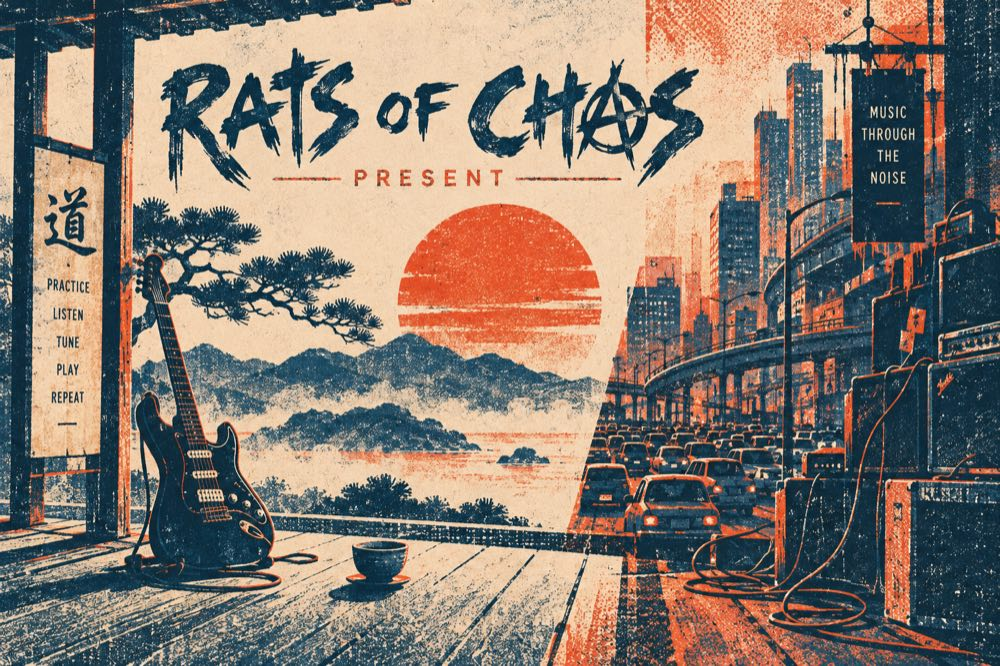
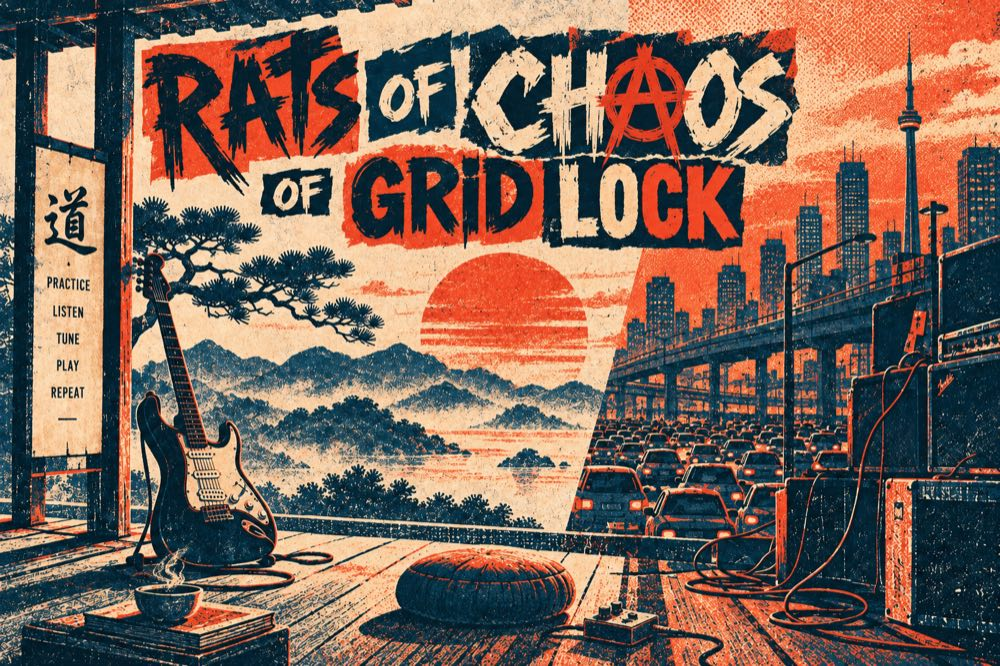
Use the Gridlock poster as the site hero

diff --git a/docs/superpowers/specs/2026-09-23-zen-guitar-journey-design.md b/docs/superpowers/specs/2026-09-23-zen-guitar-journey-design.md
@@ -286,14 +286,14 @@ the layout does not change.
 
 ## Addendum 3, 2026-09-23: the hero image is the Rats of Chaos poster
 
-The owner supplied `zen_guitar/zen rats of chaos.png` (a two-ink poster, indigo
+The owner supplied `zen_guitar/rats of chaos of grid lock to use.png` (the full-name version, "Rats of Chaos of Gridlock") (a two-ink poster, indigo
 and vermilion on cream: a guitar and teacup on a quiet porch facing pine,
 mountains and a red sun; a city, traffic and stacked amps on the right; the
 words "practice, listen, tune, play, repeat"). It replaces the generated
 risograph brief. It is landscape, so the landing slot changes: the image is
 `site/assets/hero.jpg` (no WebP encoder on the build machine; JPEG at or under
 about 200 KB, 1200 px wide), shown below the landing copy at every width, with
-`alt` "Rats of Chaos present: Music Through the Noise. A guitar and a teacup on
-a quiet porch facing pine, mountains and a red sun; a city, traffic and
-amplifiers on the other side." The README opens with the same poster from
+`alt` "Rats of Chaos of Gridlock. A quiet porch with a guitar, a cushion and a
+cup of tea facing pine, mountains and a red sun; the CN Tower, a highway of
+traffic and amplifiers on the other side." The README opens with the same poster from
 `docs/images/rats-of-chaos-poster.jpg`.
